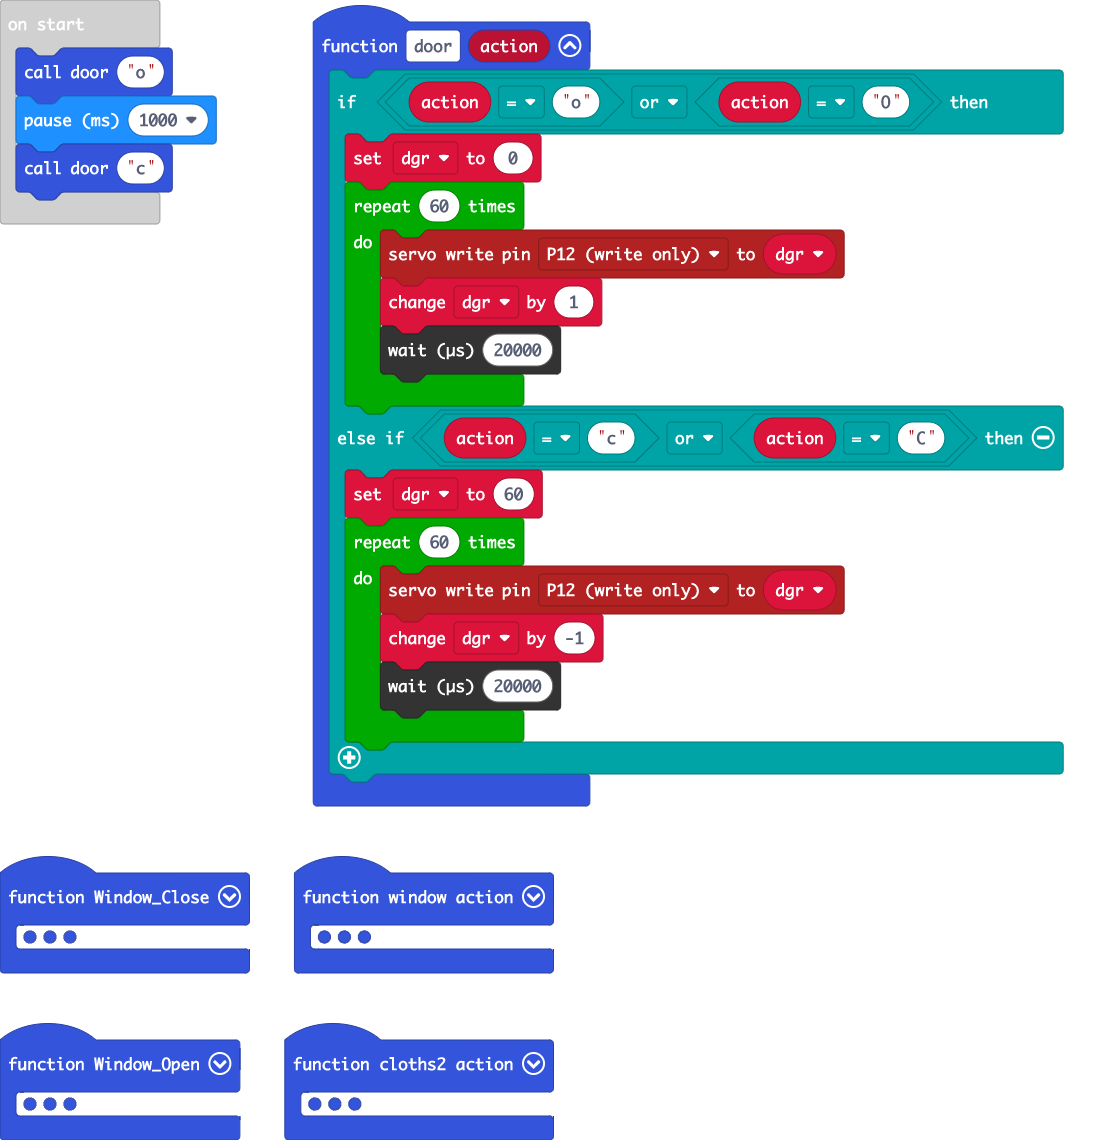
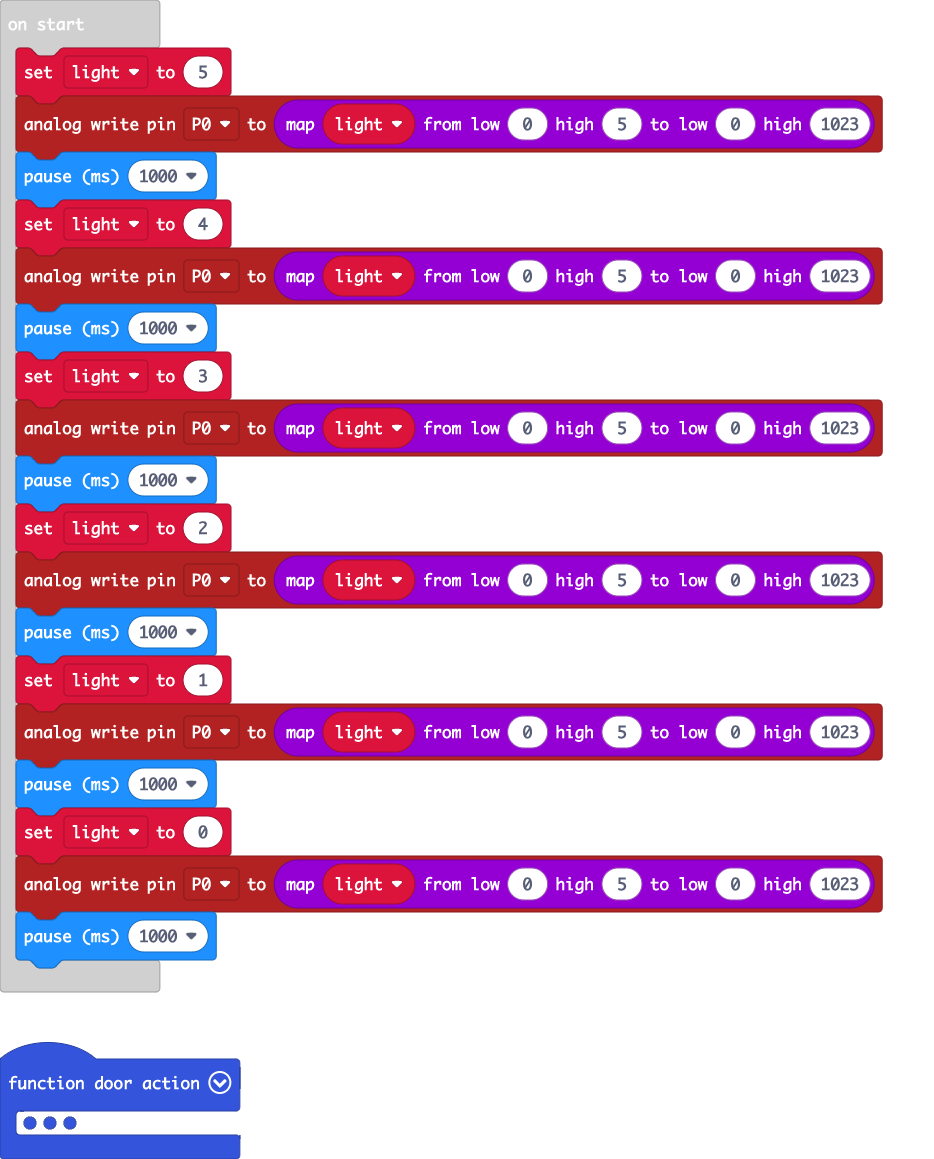
Update main.blocks, main.ts

diff --git a/main.ts b/main.ts
@@ -78,6 +78,21 @@ function cloths2 (action: string) {
     }
 }
 let dgr = 0
-door("o")
+let light2 = 5
+pins.analogWritePin(AnalogPin.P0, Math.map(light2, 0, 5, 0, 1023))
 basic.pause(1000)
-door("c")
+light2 = 4
+pins.analogWritePin(AnalogPin.P0, Math.map(light2, 0, 5, 0, 1023))
+basic.pause(1000)
+light2 = 3
+pins.analogWritePin(AnalogPin.P0, Math.map(light2, 0, 5, 0, 1023))
+basic.pause(1000)
+light2 = 2
+pins.analogWritePin(AnalogPin.P0, Math.map(light2, 0, 5, 0, 1023))
+basic.pause(1000)
+light2 = 1
+pins.analogWritePin(AnalogPin.P0, Math.map(light2, 0, 5, 0, 1023))
+basic.pause(1000)
+light2 = 0
+pins.analogWritePin(AnalogPin.P0, Math.map(light2, 0, 5, 0, 1023))
+basic.pause(1000)
